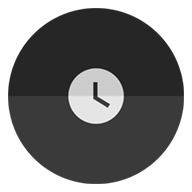
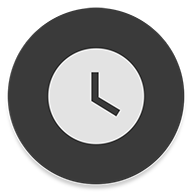
release WC ver. 3
+gradients
+fonts
+change logos

diff --git a/index.html b/index.html
@@ -25,7 +25,7 @@
     <link href="css/wordclock.css" rel="stylesheet" type="text/css"/>
     <script src="https://ajax.googleapis.com/ajax/libs/jquery/3.1.0/jquery.min.js"></script>
     <script src="js/wordclockcore.js" type="application/javascript"></script>
-    <link href="https://fonts.googleapis.com/css?family=Roboto:700,900,900&subset=cyrillic,cyrillic-ext" rel="stylesheet"/>
+    <link href="https://fonts.googleapis.com/css?family=Alegreya+Sans+SC:100,700|Bad+Script|Cormorant+Unicase:700|Exo+2:100,700|Lobster|Lora:400,700|Roboto:700&amp;subset=cyrillic" rel="stylesheet">
     <script>
         (function(i,s,o,g,r,a,m){i['GoogleAnalyticsObject']=r;i[r]=i[r]||function(){
                 (i[r].q=i[r].q||[]).push(arguments)},i[r].l=1*new Date();a=s.createElement(o),

diff --git a/css/wordclock.css b/css/wordclock.css
@@ -1,15 +1,13 @@
 html, body {
-    background-color: #3A3A3A;
+    background: #3A3A3A;
     color: white;
     font-family: 'Roboto', sans-serif;
+    font-weight: bold;
+
     height: 100%;
     margin: 0;
     padding: 0;
     width: 100%;
-    -webkit-transition: all 0.5s ease-in-out;
-    -moz-transition: all 0.5s ease-in-out;
-    -o-transition: all 0.5s ease-in-out;
-    transition: all 0.5s ease-in-out;
 }
 
 body {
@@ -19,10 +17,13 @@ body {
 #textClock {
     font-weight: 700;
     font-size: 40pt;
+
     text-shadow: 0 5px 20px rgba(0, 0, 0, 0.29);
+
     text-align: center;
     display: table-cell;
     vertical-align: middle;
+
     -moz-user-select: -moz-none;
     -o-user-select: none;
     -khtml-user-select: none;

diff --git a/README.md b/README.md
@@ -1,10 +1,10 @@
-# WordClock
-![WordClock Logo](/img/wordclock192.png)
+# WordClock — БУКВЕННЫЕ ЧАСИКИ
+![WordClock Logo](./img/wordclock192.png)
 
 **WordClock** application was originally [developed for Android OS](https://play.google.com/store/apps/details?id=ru.shmeile.wordclock2), and now it was rewritten for the web.
 
 Приложение **БУКВЕННЫЕ ЧАСИКИ** изначально было [разработано для ОС Android](https://play.google.com/store/apps/details?id=ru.shmeile.wordclock2), теперь он доступен и в WEB.
 ***
 
-All rights reserved [© Shmeile Media](https://github.com/shmeilemedia)
-Author: [Oleg Plaxin](https://github.com/plaxin)
+All rights reserved [© Shmeile Media](https://bitbucket.org/shmeileru)
+Author: [Oleg Plaxin](https://bitbucket.org/plaxin)
